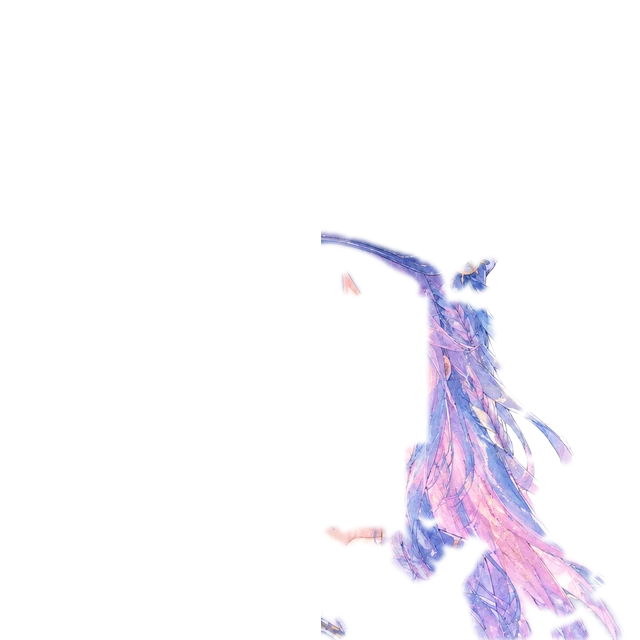
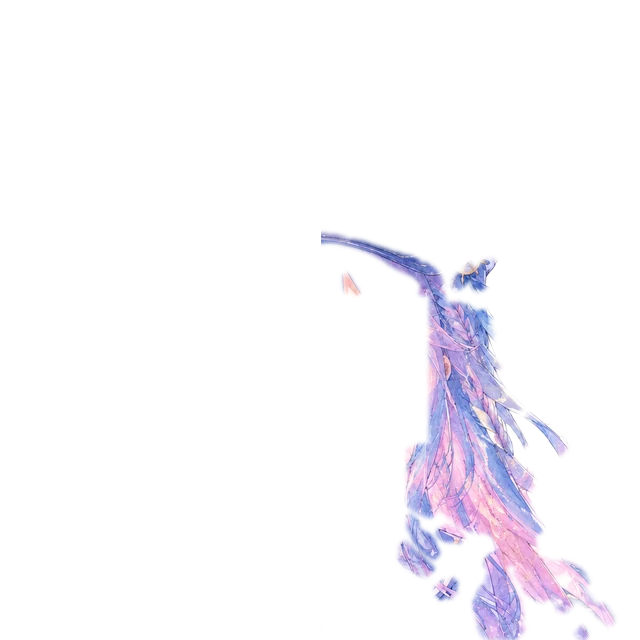
リグ: あご下は差分の強い所だけ髪に(襟・袖が横髪に混ざらんように)。服の上の髪は静止

diff --git a/public/ayn-rig/rig.json.js b/public/ayn-rig/rig.json.js
@@ -1,1 +1,1 @@
-window.AYN_RIG = {"version": 1, "size": 640, "source": "AYN watercolor bust-up (mks ayn_s2) + custom GPT diff variants", "face": {"cx": 321, "eyes": [229, 325, 413, 378], "mouth": [305, 415, 346, 435], "neck_y": 511}, "layers": [{"name": "body", "file": "body.webp", "z": 0, "group": "body"}, {"name": "head", "file": "head.webp", "z": 1, "group": "head"}, {"name": "hair_L", "file": "hair_L.webp", "z": 2, "group": "head", "pivot": [192, 200], "physics": {"type": "pendulum", "stiffness": 9, "damping": 1.3, "max_deg": 20, "wind": 3.8, "phase": 0.0}}, {"name": "hair_R", "file": "hair_R.webp", "z": 3, "group": "head", "pivot": [470, 236], "physics": {"type": "pendulum", "stiffness": 9, "damping": 1.3, "max_deg": 20, "wind": 3.8, "phase": 1.7}}, {"name": "eyes_closed", "file": "eyes_closed.webp", "z": 4, "group": "head", "switch": "blink"}, {"name": "mouth_open", "file": "mouth_open.webp", "z": 5, "group": "head", "switch": "mouth"}, {"name": "eyes_happy", "file": "eyes_happy.webp", "z": 6, "group": "head", "switch": "expr"}, {"name": "eyes_wink", "file": "eyes_wink.webp", "z": 7, "group": "head", "switch": "expr"}, {"name": "eyes_up", "file": "eyes_up.webp", "z": 8, "group": "head", "switch": "expr"}, {"name": "face_sad", "file": "face_sad.webp", "z": 9, "group": "head", "switch": "expr"}, {"name": "face_surprise", "file": "face_surprise.webp", "z": 10, "group": "head", "switch": "expr"}, {"name": "face_shy", "file": "face_shy.webp", "z": 11, "group": "head", "switch": "expr"}, {"name": "face_angry", "file": "face_angry.webp", "z": 12, "group": "head", "switch": "expr"}, {"name": "face_sleepy", "file": "face_sleepy.webp", "z": 13, "group": "head", "switch": "expr"}, {"name": "hair_front", "file": "hair_front.webp", "z": 20, "group": "head", "pivot": [321, 249], "physics": {"type": "pendulum", "stiffness": 9, "damping": 1.5, "max_deg": 14, "wind": 16.0, "wind_freq": 0.55, "phase": 0.9}}], "expressions": {"neutral": {}, "happy": {"layers": ["eyes_happy"], "bangs": 5}, "wink": {"layers": ["eyes_wink"], "bangs": 7}, "think": {"layers": ["eyes_up"], "tilt": -6, "bangs": -6}, "sad": {"layers": ["face_sad"], "tilt": 4, "bangs": 4}, "surprise": {"layers": ["face_surprise"], "bangs": 0}, "kubikashige": {"layers": ["eyes_happy"], "tilt": 10, "bangs": 8}, "shy": {"layers": ["face_shy"], "tilt": 3, "bangs": 5}, "angry": {"layers": ["face_angry"], "bangs": -4}, "sleepy": {"layers": ["face_sleepy"], "tilt": -5, "bangs": -5}}, "groups": {"head": {"pivot": [321, 511], "tilt_deg": 4.0, "breathe_px": 6}, "body": {"pivot": [321, 640], "breathe_px": 3}}};
+window.AYN_RIG = {"version": 1, "size": 640, "source": "AYN watercolor bust-up (mks ayn_s2) + custom GPT diff variants", "face": {"cx": 321, "eyes": [229, 325, 413, 378], "mouth": [305, 415, 346, 435], "neck_y": 511}, "layers": [{"name": "body", "file": "body.webp", "z": 0, "group": "body"}, {"name": "head", "file": "head.webp", "z": 1, "group": "head"}, {"name": "hair_L", "file": "hair_L.webp", "z": 2, "group": "head", "pivot": [192, 200], "physics": {"type": "pendulum", "stiffness": 9, "damping": 1.3, "max_deg": 20, "wind": 3.8, "phase": 0.0}}, {"name": "hair_R", "file": "hair_R.webp", "z": 3, "group": "head", "pivot": [466, 236], "physics": {"type": "pendulum", "stiffness": 9, "damping": 1.3, "max_deg": 20, "wind": 3.8, "phase": 1.7}}, {"name": "eyes_closed", "file": "eyes_closed.webp", "z": 4, "group": "head", "switch": "blink"}, {"name": "mouth_open", "file": "mouth_open.webp", "z": 5, "group": "head", "switch": "mouth"}, {"name": "eyes_happy", "file": "eyes_happy.webp", "z": 6, "group": "head", "switch": "expr"}, {"name": "eyes_wink", "file": "eyes_wink.webp", "z": 7, "group": "head", "switch": "expr"}, {"name": "eyes_up", "file": "eyes_up.webp", "z": 8, "group": "head", "switch": "expr"}, {"name": "face_sad", "file": "face_sad.webp", "z": 9, "group": "head", "switch": "expr"}, {"name": "face_surprise", "file": "face_surprise.webp", "z": 10, "group": "head", "switch": "expr"}, {"name": "face_shy", "file": "face_shy.webp", "z": 11, "group": "head", "switch": "expr"}, {"name": "face_angry", "file": "face_angry.webp", "z": 12, "group": "head", "switch": "expr"}, {"name": "face_sleepy", "file": "face_sleepy.webp", "z": 13, "group": "head", "switch": "expr"}, {"name": "hair_front", "file": "hair_front.webp", "z": 20, "group": "head", "pivot": [321, 249], "physics": {"type": "pendulum", "stiffness": 9, "damping": 1.5, "max_deg": 14, "wind": 16.0, "wind_freq": 0.55, "phase": 0.9}}], "expressions": {"neutral": {}, "happy": {"layers": ["eyes_happy"], "bangs": 5}, "wink": {"layers": ["eyes_wink"], "bangs": 7}, "think": {"layers": ["eyes_up"], "tilt": -6, "bangs": -6}, "sad": {"layers": ["face_sad"], "tilt": 4, "bangs": 4}, "surprise": {"layers": ["face_surprise"], "bangs": 0}, "kubikashige": {"layers": ["eyes_happy"], "tilt": 10, "bangs": 8}, "shy": {"layers": ["face_shy"], "tilt": 3, "bangs": 5}, "angry": {"layers": ["face_angry"], "bangs": -4}, "sleepy": {"layers": ["face_sleepy"], "tilt": -5, "bangs": -5}}, "groups": {"head": {"pivot": [321, 511], "tilt_deg": 4.0, "breathe_px": 6}, "body": {"pivot": [321, 640], "breathe_px": 3}}};
